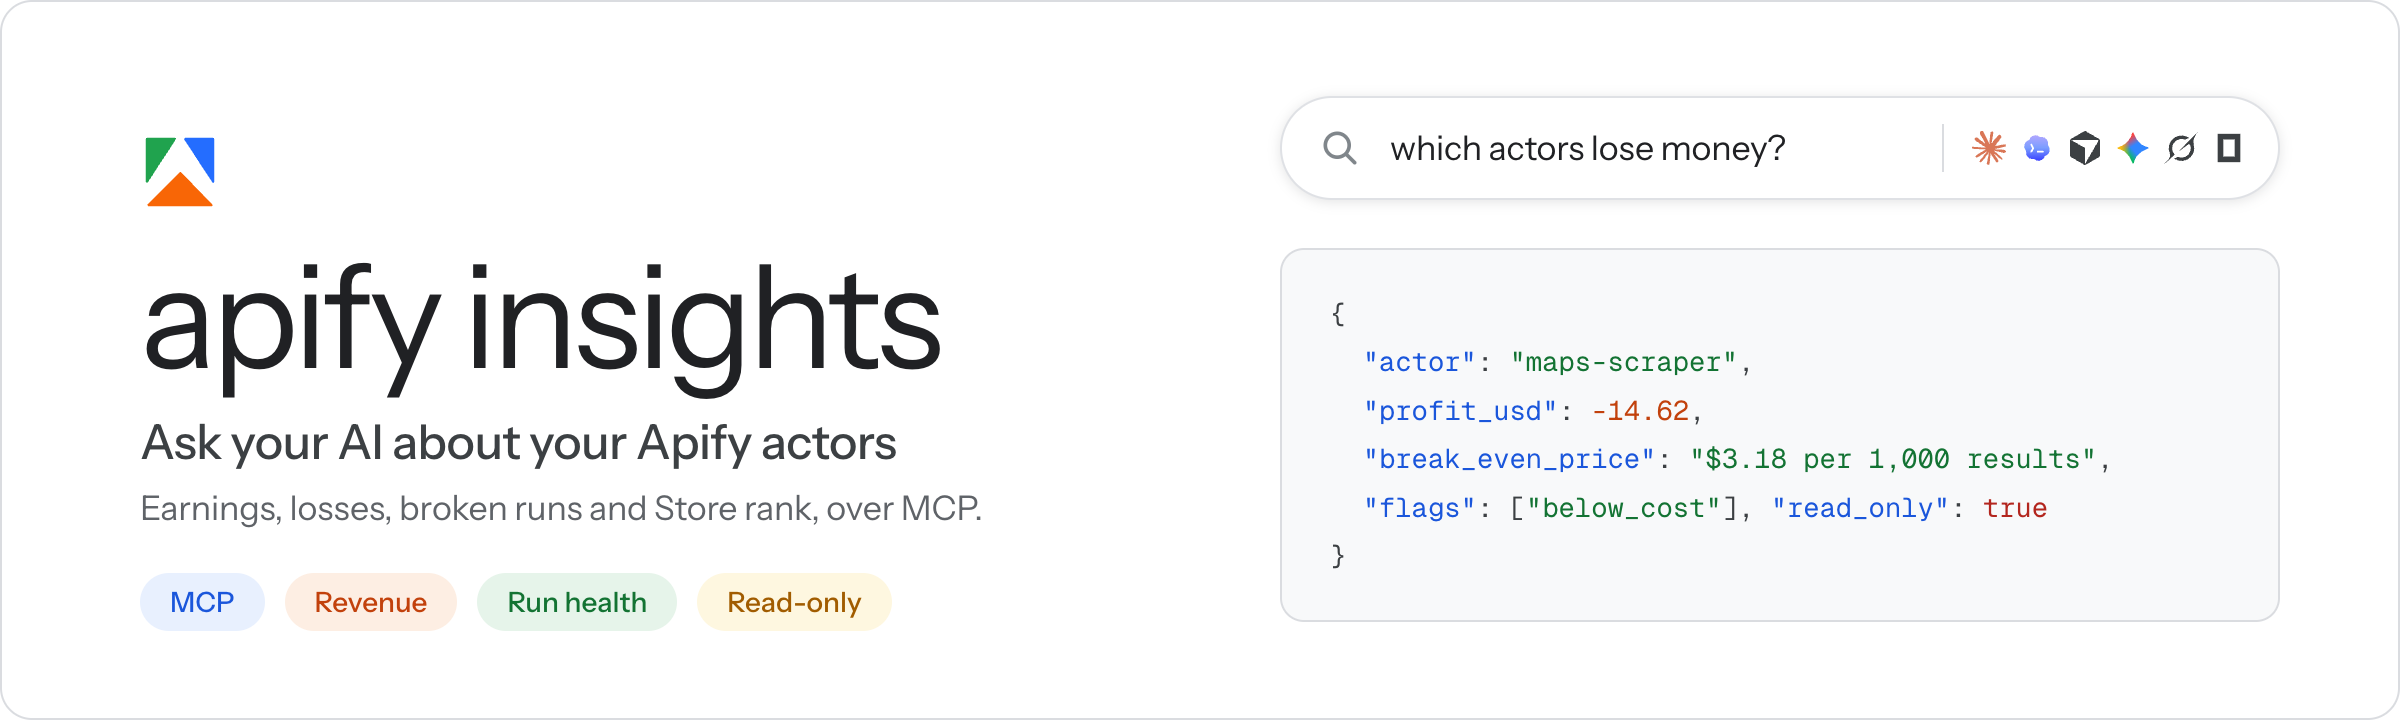
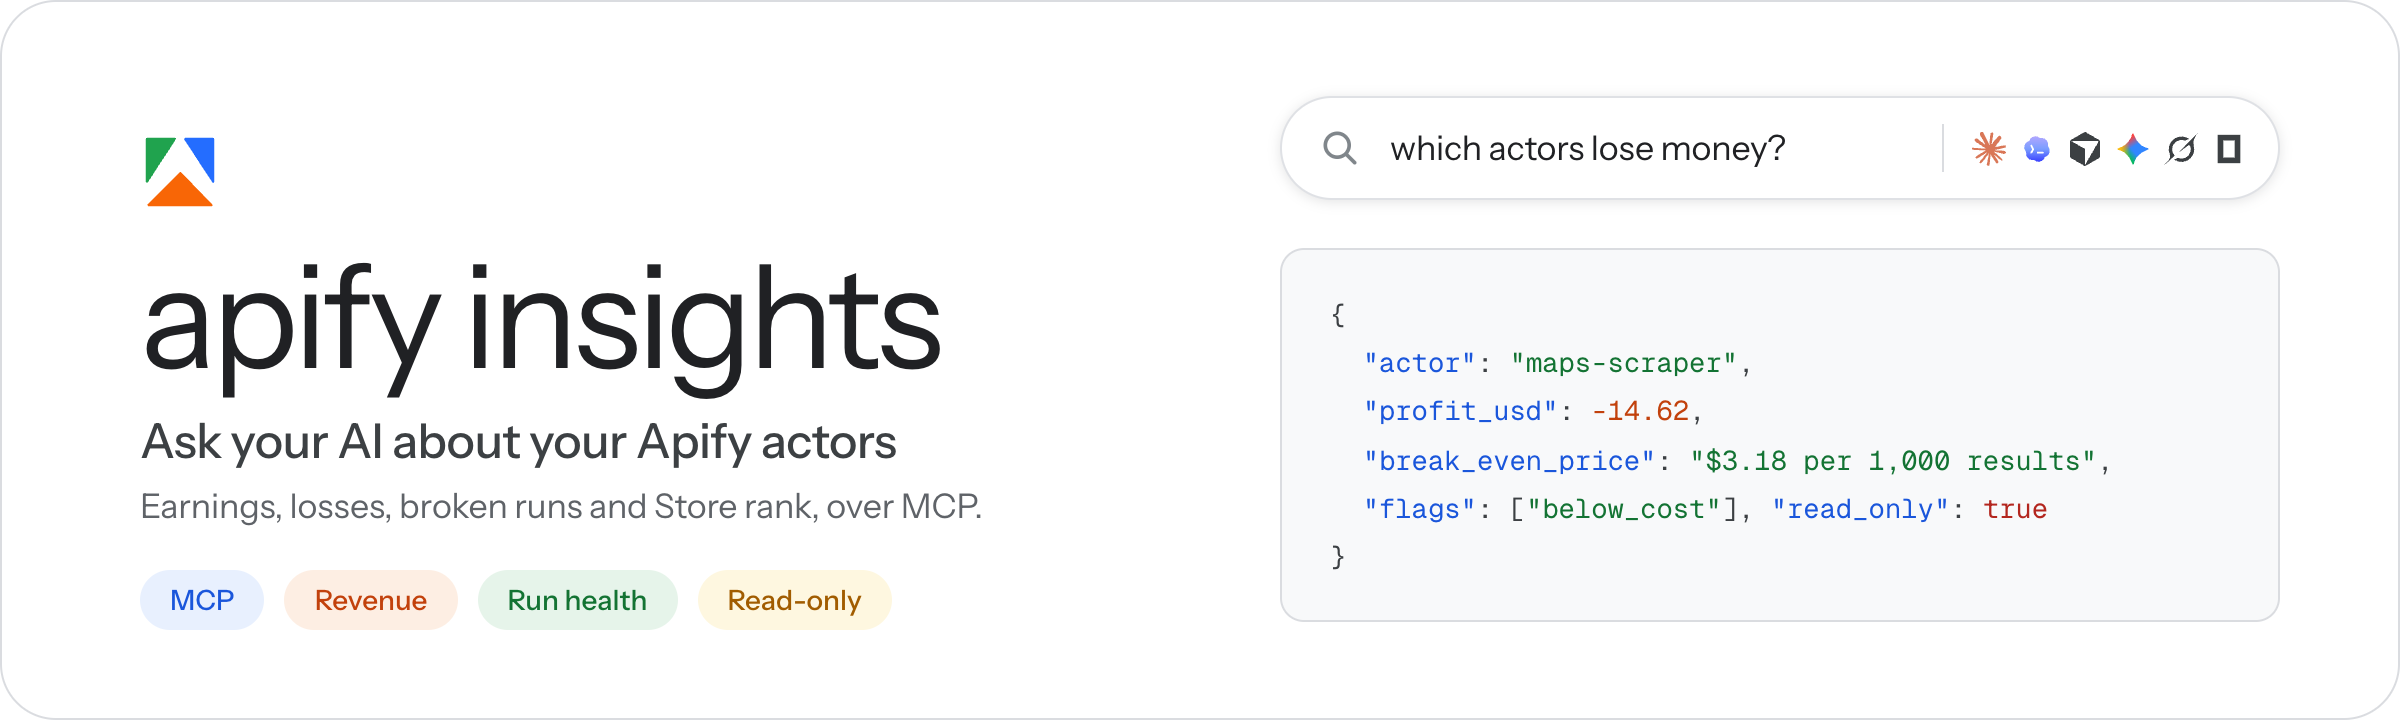
docs: rounded transparent cover corners, emoji section headings
scripts/render-cover.mjs renders the cover through headless Chrome with a transparent background,
so the rounded corners hold on GitHub's dark theme.

diff --git a/docs/assets/cover.html b/docs/assets/cover.html
@@ -1,8 +1,5 @@
 <!doctype html>
-<!-- Cover for README.md (1200x360). Re-render after editing:
-     "/Applications/Google Chrome.app/Contents/MacOS/Google Chrome" --headless=new --hide-scrollbars \
-       --window-size=1200,360 --force-device-scale-factor=2 --virtual-time-budget=6000 \
-       --screenshot=docs/assets/cover.png "file://$PWD/docs/assets/cover.html"
+<!-- Cover for README.md (1200x360). Re-render after editing: node scripts/render-cover.mjs
      Logos: Apify (apify.com), others from LobeHub Icons (MIT). Trademarks belong to their owners.
      The JSON is an example answer, not real data. -->
 <html><head><meta charset="utf-8">
@@ -10,9 +7,9 @@
 <link href="https://fonts.googleapis.com/css2?family=Instrument+Sans:wght@400;500;600&family=Geist+Mono:wght@400;500&display=block" rel="stylesheet">
 <style>
 * { box-sizing:border-box; margin:0; }
-html,body { width:1200px; height:360px; overflow:hidden; background:#fff; }
+html,body { width:1200px; height:360px; overflow:hidden; background:transparent; }
 body { font-family:'Instrument Sans',sans-serif; color:#202124; -webkit-font-smoothing:antialiased; }
-.frame { position:absolute; inset:0; border:1px solid #dadce0; border-radius:16px; background:#fff; }
+.frame { position:absolute; inset:0; border:1px solid #dadce0; border-radius:28px; background:#fff; }
 .left { position:absolute; left:70px; top:66px; width:500px; }
 .mark { display:flex; align-items:center; gap:10px; }
 h1 { font-weight:400; font-size:72px; line-height:1; letter-spacing:-2.6px; margin-top:16px; color:#202124; }

diff --git a/README.md b/README.md
@@ -14,7 +14,7 @@
   <img alt="MIT license" src="https://img.shields.io/badge/license-MIT-1a1714?style=flat-square">
 </p>
 
-## What you can ask
+## 💬 What you can ask
 
 | Ask | You get |
 |---|---|
@@ -25,7 +25,7 @@
 | *"Where do I rank for tiktok scraper?"* | Your Store search position and who ranks above you |
 | *"Compare me with another creator"* | Your public portfolio next to theirs |
 
-## Install
+## ⚡ Install
 
 **Let your AI agent do it.** Paste this into Claude Code, Codex, Cursor, Gemini CLI or OpenCode:
 
@@ -44,14 +44,14 @@ Restart your AI client and ask *"How did my Apify actors do yesterday?"*
 
 Revenue and profit need a small Chrome extension. Claude Desktop, one-click installs for single clients, updates and fixes are all in **[docs/install.md](docs/install.md)**.
 
-## Good to know
+## 💡 Good to know
 
 - **Read-only.** It never changes anything in your Apify account.
 - **Runs on your computer.** It talks only to Apify, and your token stays in the Apify CLI login.
 - **No guessing.** A number it cannot get shows as "not available", never as zero.
 - Every tool and how each metric is worked out: [docs/tools.md](docs/tools.md).
 
-## Development
+## 🛠 Development
 
 ```bash
 npm test             # tests on made-up data
@@ -62,6 +62,6 @@ npm run pack:mcpb    # builds the Claude Desktop extension
 
 Why it installs this way: [ADR 0001](docs/adr/0001-multi-client-distribution.md). Release notes: [CHANGELOG.md](CHANGELOG.md).
 
-## License
+## 📄 License
 
 [MIT](LICENSE), by Devansh Tiwari.
